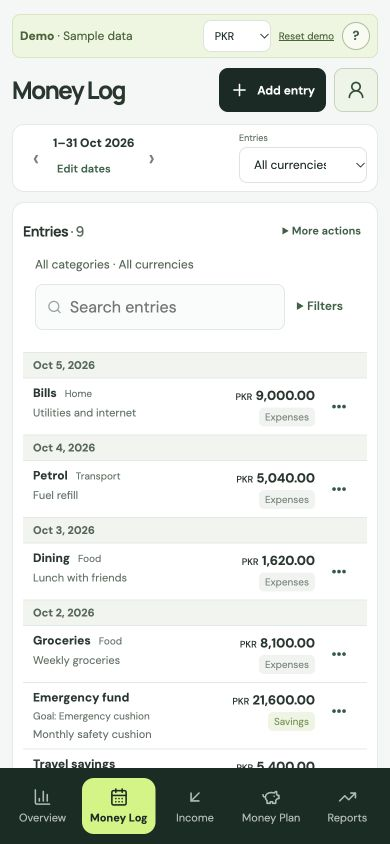
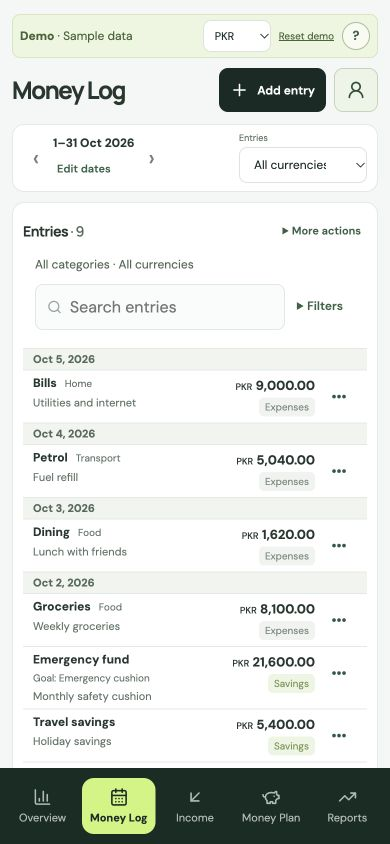
Tighten transaction spacing on shorter phones

diff --git a/tests/ui/layout-followup.spec.ts b/tests/ui/layout-followup.spec.ts
@@ -13,7 +13,7 @@ test('reports show four compact desktop totals and bars agree with displayed per
 });
 test('headers stay compact, short notes stay plain and phone Money Log shows at least four records',async({page})=>{
  await page.setViewportSize({width:390,height:844});for(const destination of ['overview','money-log','income','money-plan','reports']){await page.goto('/demo/'+destination);await expect(page.getByRole('heading',{level:1})).toBeVisible();const header=await page.locator('.page-header').boundingBox();expect(header!.height).toBe(44);}
- await page.goto('/demo/money-log');const visible=await page.locator('.transaction-row').evaluateAll(rows=>rows.filter(row=>row.getBoundingClientRect().bottom<innerHeight-76).length);expect(visible).toBeGreaterThanOrEqual(4);await expect(page.locator('.transaction-row').filter({hasText:'Fuel refill'}).locator('.transaction-note-details')).toHaveCount(0);
+ await page.goto('/demo/money-log');const visible=await page.locator('.transaction-row').evaluateAll(rows=>rows.filter(row=>row.getBoundingClientRect().bottom<innerHeight-76).length);expect(visible).toBeGreaterThanOrEqual(4);await expect(page.locator('.transaction-row').filter({hasText:'Fuel refill'}).locator('.transaction-note-details')).toHaveCount(0);await page.setViewportSize({width:390,height:660});const shorter=await page.locator('.transaction-row').evaluateAll(rows=>rows.filter(row=>row.getBoundingClientRect().bottom<innerHeight-76).length);expect(shorter).toBeGreaterThanOrEqual(3);
  await page.getByLabel('About demo and reporting currencies').click();await expect(page.locator('.demo-currency-help')).toContainText('never converts amounts');
 });
 test('only clipped notes expand and saving keeps recorded and planned balances distinct',async({page})=>{

diff --git a/src/styles.css b/src/styles.css
@@ -263,3 +263,4 @@ html{scrollbar-gutter:stable}dialog{overscroll-behavior:contain}.amount-field{mi
 @media(min-width:1100px){.overview-summary.with-goals>.overview-goals{height:auto}.overview-summary .budget-hero .context-help{margin:0}}
 
 .home-budget-preview{aspect-ratio:717/280}.home-budget-preview img{position:static;width:100%;max-width:100%;height:auto;left:auto;top:auto}
+@media(max-width:767px){.money-log-page .grouped-transactions .transaction-row,.money-log-page .grouped-transactions .transaction-row:has(.money-value[data-wide="true"]){padding-top:4px;padding-bottom:4px;min-height:52px}.money-log-page .grouped-transactions .transaction-date-group{padding-top:2px;padding-bottom:2px}.money-log-page .log-scope-summary{font-size:11px;line-height:1.4;margin:4px 0 6px}.money-log-page .log-filter-toolbar{margin-top:4px;margin-bottom:6px}}

diff --git a/docs/LAYOUT_FOLLOWUP_RELEASE.md b/docs/LAYOUT_FOLLOWUP_RELEASE.md
@@ -10,8 +10,8 @@ Addresses the second UI review following the scan-clarity release:
 - The positive allowance label is consistently Spending budget left, with About spending budget left and Spending over budget for deficits. Demo controls provide brief help distinguishing sample datasets from currency filtering; reporting/list currency selectors have visible labels and explanatory titles.
 - Guide copy/screenshots, the smaller real homepage budget crop and LLM descriptions are refreshed. Existing routes, sitemap, private noindex boundaries, authentication and database rules are unchanged.
 
-Validation: 141 unit/integration tests passed, including the intentional report-status wording update. Connected Chrome checked all seven workspace pages at nine widths (320, 390, 660, 768, 900, 901, 1024, 1100 and 1440px): no horizontal overflow and 44px headers. Money Log showed four complete records at 320px and five at 390px, with an 844px screen. Four desktop report cards share a row. All rendered bar widths matched their percentage labels within rounding.
+Validation: 141 unit/integration tests passed, including the intentional report-status wording update. Connected Chrome checked all seven workspace pages at nine widths (320, 390, 660, 768, 900, 901, 1024, 1100 and 1440px): no horizontal overflow and 44px headers. Money Log showed four complete records at 320px and five at 390px, with an 844px screen; a shorter 390×660 screen was also checked for at least three complete records. Four desktop report cards share a row. All rendered bar widths matched their percentage labels within rounding.
 
-Native pointer/keyboard picker checks passed at 1440×900, 768×700, 390×844, 390×500 and 320×568: full field/list width, no dialog/date/form-scroll movement, bounded list above the save footer, keyboard search/selection and Escape. A sample PKR1,250 save updated Spending budget left to PKR46,990 and Income left (recorded) to PKR64,990; a long note expanded from a 56px row and collapsed again. Only synthetic demo records were used.
+Native pointer/keyboard picker checks passed at 1440×900, 768×700, 390×844, 390×500 and 320×568: full field/list width, no dialog/date/form-scroll movement, bounded list above the save footer, keyboard search/selection and Escape. A sample PKR1,250 save updated Spending budget left to PKR46,990 and Income left (recorded) to PKR64,990; a long note expanded from its compact row and collapsed again. Only synthetic demo records were used.
 
 Four Playwright regressions were added. The runner was attempted but Chrome aborted during launch before assertions (the existing local SIGABRT issue); do not report that suite as passed. Connected-browser checks cover the intended interactions. Physical phone keyboards, screen readers and older-browser fallbacks were not verified. The preexisting unrelated index.html edit remains excluded from publication.
